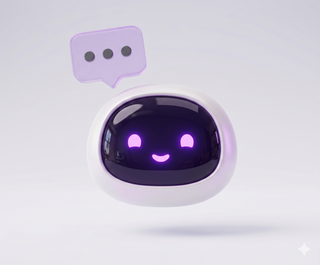
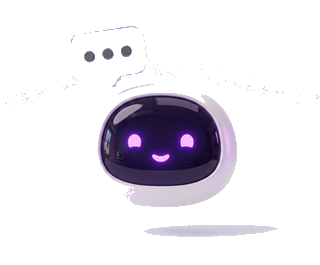
fix(widget): badge dentro del FAB + PNG bot con fondo transparente
Dos issues visuales reportados:

1. Círculo blanco alrededor del bot kawaii
   Causa: el PNG tenía fondo gris-lila sólido (#e8e7ed), no transparente.
   Cuando el FAB usa <img> con object-fit:contain, ese fondo queda visible.
   Fix: flood fill desde cada esquina con Pillow ImageDraw.floodfill,
   tolerancia 45 (cubre rango 203-248 RGB del fondo). Resultado: 82% del
   canvas ahora transparente, solo queda el bot. PNG bajó de 73KB → 29KB.

2. Badge '1' no se movía con la animación float del bot
   Causa: el <div id='cm-badge'> estaba OUT del <button id='cm-fab'> — al
   nivel del #cm-widget-container. Posicionado absolute al container, no
   recibía el transform:translateY del float del button.
   Fix: mover el badge DENTRO del <button>. Ahora hereda todas las
   transformaciones del FAB (float, hover scale) en perfecta sincronía.
   CSS ajustado para cm-fab.cm-fab-image: badge en top:8px right:12px
   (encima del visor oscuro del bot, se lee bien).

Bonus: badge con keyframe pop al aparecer (scale 0 → 1.2 → 1) para
llamar la atención cuando llega nueva notif.

diff --git a/widget/static/chat.css b/widget/static/chat.css
@@ -134,14 +134,13 @@
   50%      { transform: translateY(-6px); }
 }
 
+/* Badge de mensajes no leídos. Vive DENTRO del #cm-fab (no en el contenedor
+   exterior) — así hereda las transformaciones del button (animación float,
+   hover scale) y se mueve en perfecta sincronía con el bot. */
 #cm-badge {
   position: absolute;
-  /* Cuando el FAB es circular (default), el badge va en la esquina del
-     círculo. Cuando es imagen del bot kawaii (rect 84x84 con bot centrado
-     abajo-derecha), lo movemos a la "cabeza" del bot para que no flote
-     suelto — ver regla abajo. */
-  top: 6px;
-  right: 6px;
+  top: 0;
+  right: 0;
   background: #ea4335;
   color: #fff;
   font-size: 11px;
@@ -153,18 +152,24 @@
   align-items: center;
   justify-content: center;
   padding: 0 5px;
-  /* Shadow para que no se pierda si el bot tiene fondo claro */
   box-shadow: 0 2px 6px rgba(0, 0, 0, 0.25);
-  /* Z-index alto para quedar arriba del bot */
   z-index: 2;
+  /* El display inicial es 'none'; cuando el JS lo muestra (`style.display
+     = 'flex'`), la animación de rebote llama la atención. */
+  animation: cm-badge-pop 0.4s ease-out;
 }
-/* Cuando el FAB es imagen (bot kawaii), el badge va pegado al visor del
-   bot. La imagen es 4:3 con el bot centrado-derecha, entonces el badge
-   queda ~encima del ojo derecho. */
-#cm-widget-container:has(#cm-fab.cm-fab-image) #cm-badge,
-#cm-fab.cm-fab-image ~ #cm-badge {
-  top: 14px;
-  right: 14px;
+/* Cuando el FAB usa imagen del bot (rect con silueta irregular), el
+   badge se pone encima del visor oscuro (arriba-centro) para que se
+   lea bien y no quede sobre el gris del fondo/sombra. */
+#cm-fab.cm-fab-image #cm-badge {
+  top: 8px;
+  right: 12px;
+}
+
+@keyframes cm-badge-pop {
+  0%   { transform: scale(0);   }
+  60%  { transform: scale(1.2); }
+  100% { transform: scale(1);   }
 }
 
 /* ─── Chat panel ─────────────────────────────────────────────────────────── */

diff --git a/widget/static/chat.js b/widget/static/chat.js
@@ -242,8 +242,8 @@
       </button>
     </div>
   </div>
-  <div id="cm-badge"></div>
   <button id="cm-fab" class="${CONFIG.bubbleIcon ? 'cm-fab-image' : ''}" aria-label="Abrir chat de soporte">
+    <div id="cm-badge"></div>
     ${CONFIG.bubbleIcon
       ? '<img id="cm-fab-img" src="' + CONFIG.bubbleIcon + '" alt="Chat" />'
       : `
